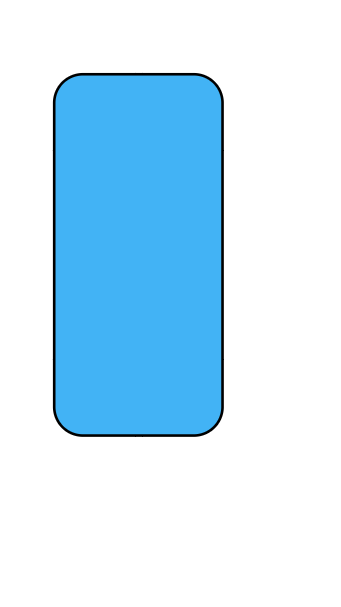
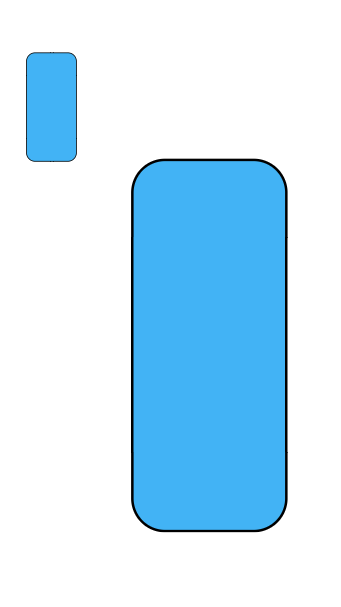
Done changes for strokewidth

diff --git a/AnimationProject/wwwroot/js/animations.js b/AnimationProject/wwwroot/js/animations.js
@@ -7218,82 +7218,83 @@ function updateSelectedImageColors(targetImage, newFill, newStroke, newStrokeWid
     const PAINT_TAGS = new Set(["path", "rect", "circle", "ellipse", "polygon", "polyline", "line", "g", "use", "text"]);
 
     function patchSvg(svgText) {
+        // parse
         const doc = new DOMParser().parseFromString(svgText, "image/svg+xml");
-  const svg = doc.documentElement;
+        const svg = doc.documentElement;
+        if (!svg || svg.nodeName.toLowerCase() === "parsererror") return svgText;
 
-  // 1) PADDING: compute per repaint (uses newStrokeWidth/origW/origH/targetImage)
-        // ── Dynamic per-side padding that collapses correctly after reload ──
-        (function applyDynamicViewBoxPadding() {
+        // 1) Dynamic per-side padding that collapses after reload
+        (function applyViewBoxForStroke() {
             const sw = Number(newStrokeWidth ?? targetImage?.strokeWidth ?? 0);
-            const half = Number.isFinite(sw) ? Math.max(0, sw / 2) : 0;
+            const half = (Number.isFinite(sw) && sw > 0) ? sw / 2 : 0;
 
-            function readBaseVB(svgEl) {
-                const vbStr = svgEl.getAttribute("viewBox");
-                if (vbStr) {
-                    const a = vbStr.trim().split(/[\s,]+/).map(Number);
-                    if (a.length >= 4 && a.every(Number.isFinite)) {
-                        return { x: a[0], y: a[1], w: a[2], h: a[3] };
-                    }
+            // current viewBox or fallback
+            let vbStr = (svg.getAttribute("viewBox") || "").trim();
+            let vbCur;
+            if (vbStr) {
+                const a = vbStr.split(/[\s,]+/).map(Number);
+                if (a.length >= 4 && a.every(Number.isFinite)) {
+                    vbCur = { x: a[0], y: a[1], w: a[2], h: a[3] };
                 }
-                const w = Number(svgEl.getAttribute("width")) || Number(origW) || 0;
-                const h = Number(svgEl.getAttribute("height")) || Number(origH) || 0;
-                return { x: 0, y: 0, w, h };
+            }
+            if (!vbCur) {
+                const w = Number(svg.getAttribute("width")) || Number(origW) || 0;
+                const h = Number(svg.getAttribute("height")) || Number(origH) || 0;
+                vbCur = { x: 0, y: 0, w, h };
             }
 
-            const baseVB = targetImage.__vb0 || (targetImage.__vb0 = readBaseVB(svg));
-
-            if (half === 0) {
-                svg.setAttribute("overflow", "visible");
-                svg.setAttribute("viewBox", `${baseVB.x} ${baseVB.y} ${baseVB.w} ${baseVB.h}`);
-                targetImage.__svgPad = { l: 0, t: 0, r: 0, b: 0 };
-                return;
-            }
-
+            // geometry bbox (stroke excluded)
             const SVG_NS = "http://www.w3.org/2000/svg";
-            let bbox = { x: baseVB.x, y: baseVB.y, width: baseVB.w, height: baseVB.h };
+            let bbox = { x: vbCur.x, y: vbCur.y, width: vbCur.w, height: vbCur.h };
             try {
                 const tmpSvg = document.createElementNS(SVG_NS, "svg");
-                tmpSvg.setAttribute("viewBox", `${baseVB.x} ${baseVB.y} ${baseVB.w} ${baseVB.h}`);
-                tmpSvg.style.position = "absolute";
-                tmpSvg.style.left = "-99999px";
-                tmpSvg.style.top = "-99999px";
-                tmpSvg.style.visibility = "hidden";
-                tmpSvg.style.width = "0";
-                tmpSvg.style.height = "0";
-
+                tmpSvg.setAttribute("viewBox", `${vbCur.x} ${vbCur.y} ${vbCur.w} ${vbCur.h}`);
+                tmpSvg.style.cssText = "position:absolute;left:-99999px;top:-99999px;visibility:hidden;width:0;height:0";
                 const g = document.createElementNS(SVG_NS, "g");
                 Array.from(svg.childNodes).forEach(n => g.appendChild(n.cloneNode(true)));
                 tmpSvg.appendChild(g);
                 document.body.appendChild(tmpSvg);
-
-                const gb = g.getBBox(); // geometry-only, no stroke
+                const gb = g.getBBox(); // excludes stroke
                 bbox = { x: gb.x, y: gb.y, width: gb.width, height: gb.height };
                 tmpSvg.remove();
-            } catch (_) { /* keep bbox as baseVB on failure */ }
+            } catch { /* keep bbox as vbCur */ }
 
-            const leftExisting = Math.max(0, bbox.x - baseVB.x);
-            const topExisting = Math.max(0, bbox.y - baseVB.y);
-            const rightExisting = Math.max(0, (baseVB.x + baseVB.w) - (bbox.x + bbox.width));
-            const bottomExisting = Math.max(0, (baseVB.y + baseVB.h) - (bbox.y + bbox.height));
+            // keep tiny author margin, drop prior saved padding
+            const tol = Math.max(0.25, Math.min(vbCur.w, vbCur.h) * 0.005); // 0.25 units or 0.5%
+            const keepL = Math.min(Math.max(0, bbox.x - vbCur.x), tol);
+            const keepT = Math.min(Math.max(0, bbox.y - vbCur.y), tol);
+            const keepR = Math.min(Math.max(0, (vbCur.x + vbCur.w) - (bbox.x + bbox.width)), tol);
+            const keepB = Math.min(Math.max(0, (vbCur.y + vbCur.h) - (bbox.y + bbox.height)), tol);
 
-            const padL = Math.max(0, half - leftExisting);
-            const padR = Math.max(0, half - rightExisting);
-            const padT = Math.max(0, half - topExisting);
-            const padB = Math.max(0, half - bottomExisting);
+            const base = {
+                x: bbox.x - keepL,
+                y: bbox.y - keepT,
+                w: bbox.width + keepL + keepR,
+                h: bbox.height + keepT + keepB
+            };
 
             svg.setAttribute("overflow", "visible");
+
+            if (half === 0) {
+                svg.setAttribute("viewBox", `${base.x} ${base.y} ${base.w} ${base.h}`);
+                targetImage.__svgPad = { l: 0, t: 0, r: 0, b: 0 };
+                return;
+            }
+
+            // add only what’s needed for current stroke
+            const padL = Math.max(0, half - keepL);
+            const padT = Math.max(0, half - keepT);
+            const padR = Math.max(0, half - keepR);
+            const padB = Math.max(0, half - keepB);
+
             svg.setAttribute(
                 "viewBox",
-                `${baseVB.x - padL} ${baseVB.y - padT} ${baseVB.w + padL + padR} ${baseVB.h + padT + padB}`
+                `${base.x - padL} ${base.y - padT} ${base.w + padL + padR} ${base.h + padT + padB}`
             );
-
             targetImage.__svgPad = { l: padL, t: padT, r: padR, b: padB };
         })();
 
-
-        // ─────────────────────────────────────────────────────────────
-
-        // Update <style> if present (tolerant regex; avoids "stop-color" etc.)
+        // 2) Style block updates
         const styleEl = svg.querySelector("style");
         if (styleEl) {
             let css = styleEl.textContent || "";
@@ -7303,19 +7304,23 @@ function updateSelectedImageColors(targetImage, newFill, newStroke, newStrokeWid
             styleEl.textContent = css;
         }
 
-        // Inline attributes on visible geometry (skip <defs>)
+        // 3) Inline attributes (skip <defs>)
         const PAINT_TAGS = new Set(["path", "rect", "circle", "ellipse", "polygon", "polyline", "line", "g", "use", "text"]);
         svg.querySelectorAll("*").forEach(el => {
             if (!PAINT_TAGS.has(el.tagName.toLowerCase())) return;
             if (el.closest("defs")) return;
-
             if (newFill != null) el.setAttribute("fill", newFill);
             if (newStroke != null) el.setAttribute("stroke", newStroke);
             if (newStrokeWidth != null) el.setAttribute("stroke-width", String(newStrokeWidth));
+            // optional for nicer corners:
+            // el.setAttribute("stroke-linejoin","round");
+            // el.setAttribute("stroke-linecap","round");
+            // el.setAttribute("paint-order","stroke fill");
         });
 
         return new XMLSerializer().serializeToString(doc);
     }
+
     function redrawSVG(svgText) {
         if (myJob !== targetImage._paintJobId) return null;
 

diff --git a/AnimationProject/wwwroot/js/animationsHorizontal.js b/AnimationProject/wwwroot/js/animationsHorizontal.js
@@ -7196,82 +7196,83 @@ function updateSelectedImageColors(targetImage, newFill, newStroke, newStrokeWid
     const PAINT_TAGS = new Set(["path", "rect", "circle", "ellipse", "polygon", "polyline", "line", "g", "use", "text"]);
 
     function patchSvg(svgText) {
+        // parse
         const doc = new DOMParser().parseFromString(svgText, "image/svg+xml");
         const svg = doc.documentElement;
+        if (!svg || svg.nodeName.toLowerCase() === "parsererror") return svgText;
 
-        // 1) PADDING: compute per repaint (uses newStrokeWidth/origW/origH/targetImage)
-        // ── Dynamic per-side padding that collapses correctly after reload ──
-        (function applyDynamicViewBoxPadding() {
+        // 1) Dynamic per-side padding that collapses after reload
+        (function applyViewBoxForStroke() {
             const sw = Number(newStrokeWidth ?? targetImage?.strokeWidth ?? 0);
-            const half = Number.isFinite(sw) ? Math.max(0, sw / 2) : 0;
+            const half = (Number.isFinite(sw) && sw > 0) ? sw / 2 : 0;
 
-            function readBaseVB(svgEl) {
-                const vbStr = svgEl.getAttribute("viewBox");
-                if (vbStr) {
-                    const a = vbStr.trim().split(/[\s,]+/).map(Number);
-                    if (a.length >= 4 && a.every(Number.isFinite)) {
-                        return { x: a[0], y: a[1], w: a[2], h: a[3] };
-                    }
+            // current viewBox or fallback
+            let vbStr = (svg.getAttribute("viewBox") || "").trim();
+            let vbCur;
+            if (vbStr) {
+                const a = vbStr.split(/[\s,]+/).map(Number);
+                if (a.length >= 4 && a.every(Number.isFinite)) {
+                    vbCur = { x: a[0], y: a[1], w: a[2], h: a[3] };
                 }
-                const w = Number(svgEl.getAttribute("width")) || Number(origW) || 0;
-                const h = Number(svgEl.getAttribute("height")) || Number(origH) || 0;
-                return { x: 0, y: 0, w, h };
+            }
+            if (!vbCur) {
+                const w = Number(svg.getAttribute("width")) || Number(origW) || 0;
+                const h = Number(svg.getAttribute("height")) || Number(origH) || 0;
+                vbCur = { x: 0, y: 0, w, h };
             }
 
-            const baseVB = targetImage.__vb0 || (targetImage.__vb0 = readBaseVB(svg));
-
-            if (half === 0) {
-                svg.setAttribute("overflow", "visible");
-                svg.setAttribute("viewBox", `${baseVB.x} ${baseVB.y} ${baseVB.w} ${baseVB.h}`);
-                targetImage.__svgPad = { l: 0, t: 0, r: 0, b: 0 };
-                return;
-            }
-
+            // geometry bbox (stroke excluded)
             const SVG_NS = "http://www.w3.org/2000/svg";
-            let bbox = { x: baseVB.x, y: baseVB.y, width: baseVB.w, height: baseVB.h };
+            let bbox = { x: vbCur.x, y: vbCur.y, width: vbCur.w, height: vbCur.h };
             try {
                 const tmpSvg = document.createElementNS(SVG_NS, "svg");
-                tmpSvg.setAttribute("viewBox", `${baseVB.x} ${baseVB.y} ${baseVB.w} ${baseVB.h}`);
-                tmpSvg.style.position = "absolute";
-                tmpSvg.style.left = "-99999px";
-                tmpSvg.style.top = "-99999px";
-                tmpSvg.style.visibility = "hidden";
-                tmpSvg.style.width = "0";
-                tmpSvg.style.height = "0";
-
+                tmpSvg.setAttribute("viewBox", `${vbCur.x} ${vbCur.y} ${vbCur.w} ${vbCur.h}`);
+                tmpSvg.style.cssText = "position:absolute;left:-99999px;top:-99999px;visibility:hidden;width:0;height:0";
                 const g = document.createElementNS(SVG_NS, "g");
                 Array.from(svg.childNodes).forEach(n => g.appendChild(n.cloneNode(true)));
                 tmpSvg.appendChild(g);
                 document.body.appendChild(tmpSvg);
-
-                const gb = g.getBBox(); // geometry-only, no stroke
+                const gb = g.getBBox(); // excludes stroke
                 bbox = { x: gb.x, y: gb.y, width: gb.width, height: gb.height };
                 tmpSvg.remove();
-            } catch (_) { /* keep bbox as baseVB on failure */ }
+            } catch { /* keep bbox as vbCur */ }
 
-            const leftExisting = Math.max(0, bbox.x - baseVB.x);
-            const topExisting = Math.max(0, bbox.y - baseVB.y);
-            const rightExisting = Math.max(0, (baseVB.x + baseVB.w) - (bbox.x + bbox.width));
-            const bottomExisting = Math.max(0, (baseVB.y + baseVB.h) - (bbox.y + bbox.height));
+            // keep tiny author margin, drop prior saved padding
+            const tol = Math.max(0.25, Math.min(vbCur.w, vbCur.h) * 0.005); // 0.25 units or 0.5%
+            const keepL = Math.min(Math.max(0, bbox.x - vbCur.x), tol);
+            const keepT = Math.min(Math.max(0, bbox.y - vbCur.y), tol);
+            const keepR = Math.min(Math.max(0, (vbCur.x + vbCur.w) - (bbox.x + bbox.width)), tol);
+            const keepB = Math.min(Math.max(0, (vbCur.y + vbCur.h) - (bbox.y + bbox.height)), tol);
 
-            const padL = Math.max(0, half - leftExisting);
-            const padR = Math.max(0, half - rightExisting);
-            const padT = Math.max(0, half - topExisting);
-            const padB = Math.max(0, half - bottomExisting);
+            const base = {
+                x: bbox.x - keepL,
+                y: bbox.y - keepT,
+                w: bbox.width + keepL + keepR,
+                h: bbox.height + keepT + keepB
+            };
 
             svg.setAttribute("overflow", "visible");
+
+            if (half === 0) {
+                svg.setAttribute("viewBox", `${base.x} ${base.y} ${base.w} ${base.h}`);
+                targetImage.__svgPad = { l: 0, t: 0, r: 0, b: 0 };
+                return;
+            }
+
+            // add only what’s needed for current stroke
+            const padL = Math.max(0, half - keepL);
+            const padT = Math.max(0, half - keepT);
+            const padR = Math.max(0, half - keepR);
+            const padB = Math.max(0, half - keepB);
+
             svg.setAttribute(
                 "viewBox",
-                `${baseVB.x - padL} ${baseVB.y - padT} ${baseVB.w + padL + padR} ${baseVB.h + padT + padB}`
+                `${base.x - padL} ${base.y - padT} ${base.w + padL + padR} ${base.h + padT + padB}`
             );
-
             targetImage.__svgPad = { l: padL, t: padT, r: padR, b: padB };
         })();
 
-
-        // ─────────────────────────────────────────────────────────────
-
-        // Update <style> if present (tolerant regex; avoids "stop-color" etc.)
+        // 2) Style block updates
         const styleEl = svg.querySelector("style");
         if (styleEl) {
             let css = styleEl.textContent || "";
@@ -7281,15 +7282,18 @@ function updateSelectedImageColors(targetImage, newFill, newStroke, newStrokeWid
             styleEl.textContent = css;
         }
 
-        // Inline attributes on visible geometry (skip <defs>)
+        // 3) Inline attributes (skip <defs>)
         const PAINT_TAGS = new Set(["path", "rect", "circle", "ellipse", "polygon", "polyline", "line", "g", "use", "text"]);
         svg.querySelectorAll("*").forEach(el => {
             if (!PAINT_TAGS.has(el.tagName.toLowerCase())) return;
             if (el.closest("defs")) return;
-
             if (newFill != null) el.setAttribute("fill", newFill);
             if (newStroke != null) el.setAttribute("stroke", newStroke);
             if (newStrokeWidth != null) el.setAttribute("stroke-width", String(newStrokeWidth));
+            // optional for nicer corners:
+            // el.setAttribute("stroke-linejoin","round");
+            // el.setAttribute("stroke-linecap","round");
+            // el.setAttribute("paint-order","stroke fill");
         });
 
         return new XMLSerializer().serializeToString(doc);
